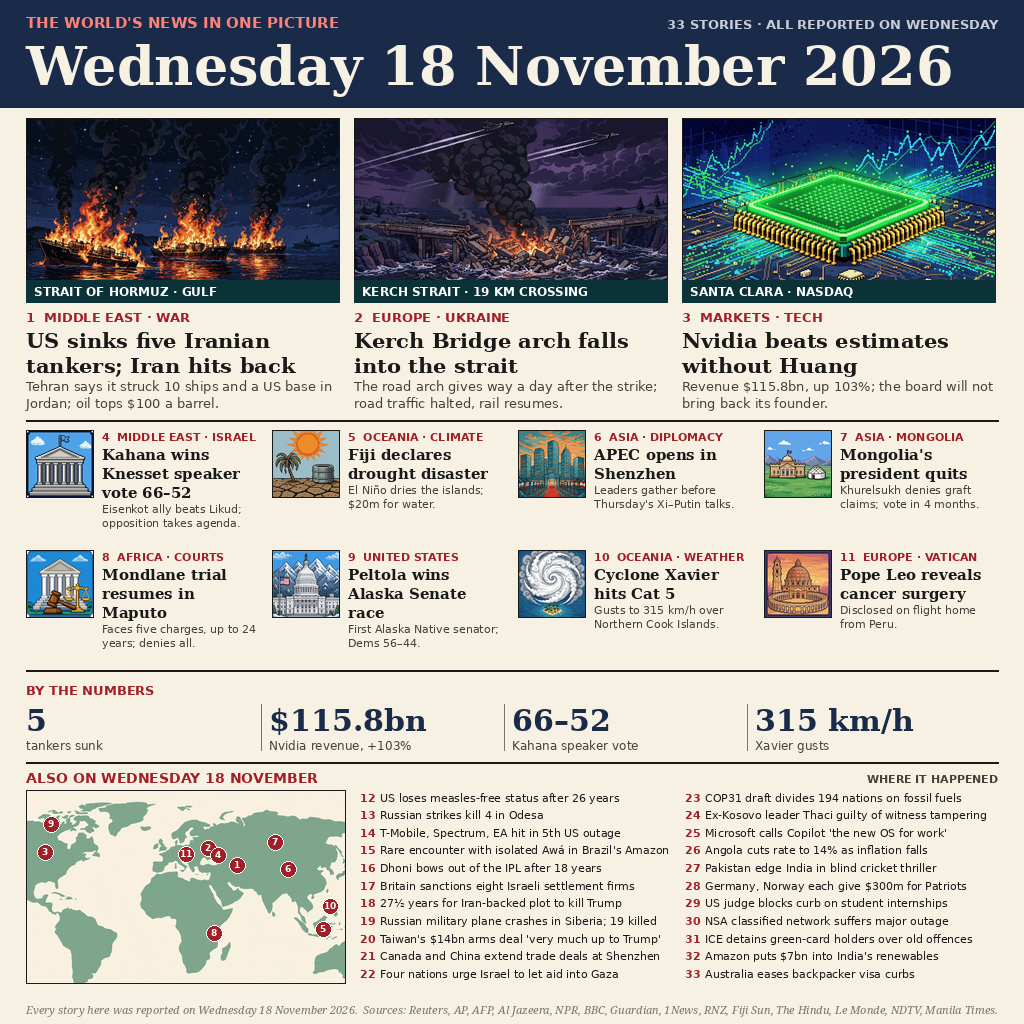
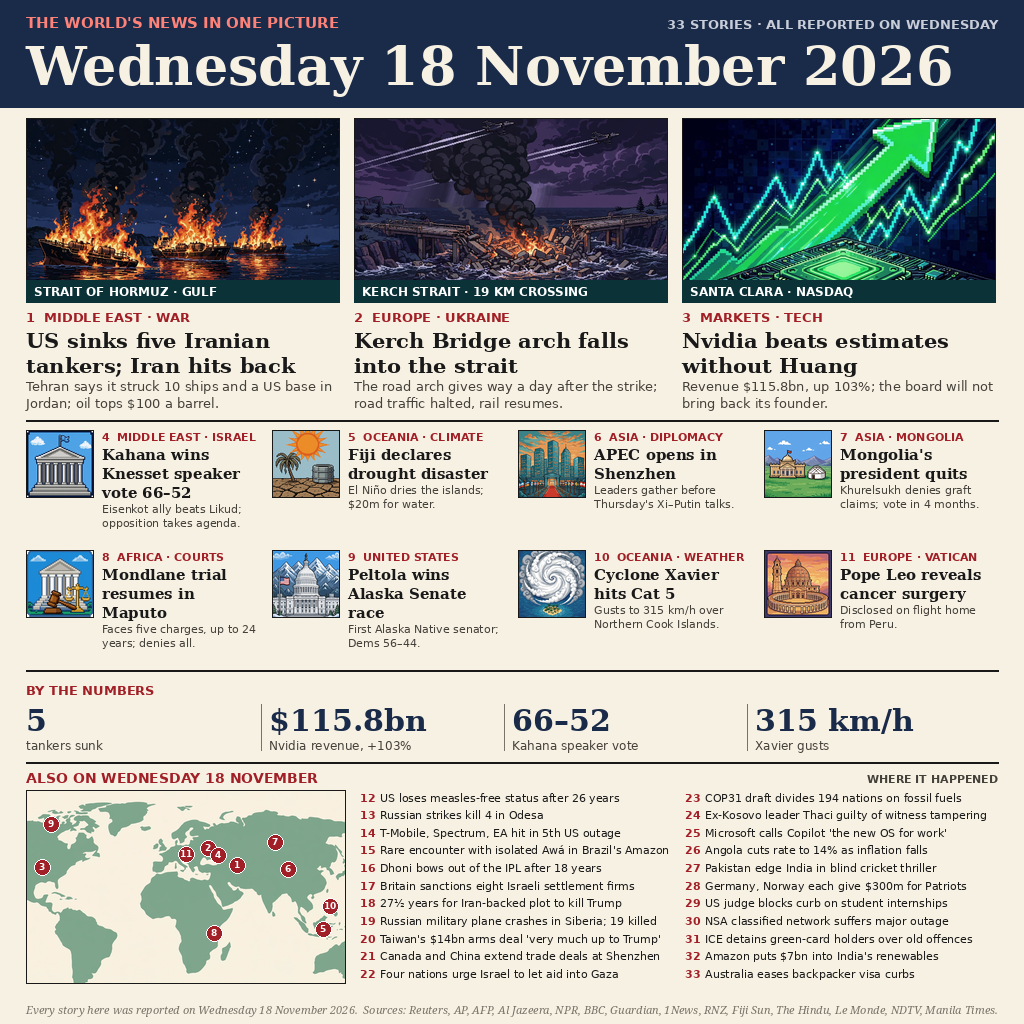
news-image-20261118 v3 final: Nvidia hero tells beats-estimates story, dot 3 onto California
- Nvidia hero rebuilt: glowing chip + bold rising green arrow and
  climbing stock charts (pixel art, no model-drawn text) so the
  image tells the story instead of showing a bare chip
- Map dot 3 (Santa Clara) moved (0.06, 0.32) -> (0.05, 0.40):
  it still sat in Oregon; new position verified on California
  against the Gulf of California landmark
- entry.png 564,921 bytes, deterministic, 300px test passed

Changed region(s): [[0.6562, 0.0938, 0.9688, 0.2812], [0.0312, 0.8125, 0.0625, 0.875]]

diff --git a/main.ts b/main.ts
@@ -23,7 +23,10 @@
 // corrected (Santa Clara, Kerch, Rome, Mongolia were misplaced; Xavier
 // was clipped), the Kerch deck was updated (rail resumes), the APEC
 // icon was replaced with a summit scene, and 3 stories that broke after
-// the first build were added to the ALSO list.
+// the first build were added to the ALSO list. Final round: the Nvidia
+// hero was rebuilt (chip + bold rising green arrow and climbing charts,
+// so it tells the "beats estimates" story instead of showing a bare
+// chip), and map dot 3 moved onto California (it still sat in Oregon).
 
 import { copyFileSync, mkdirSync, statSync } from 'node:fs';
 import { dirname, resolve } from 'node:path';
